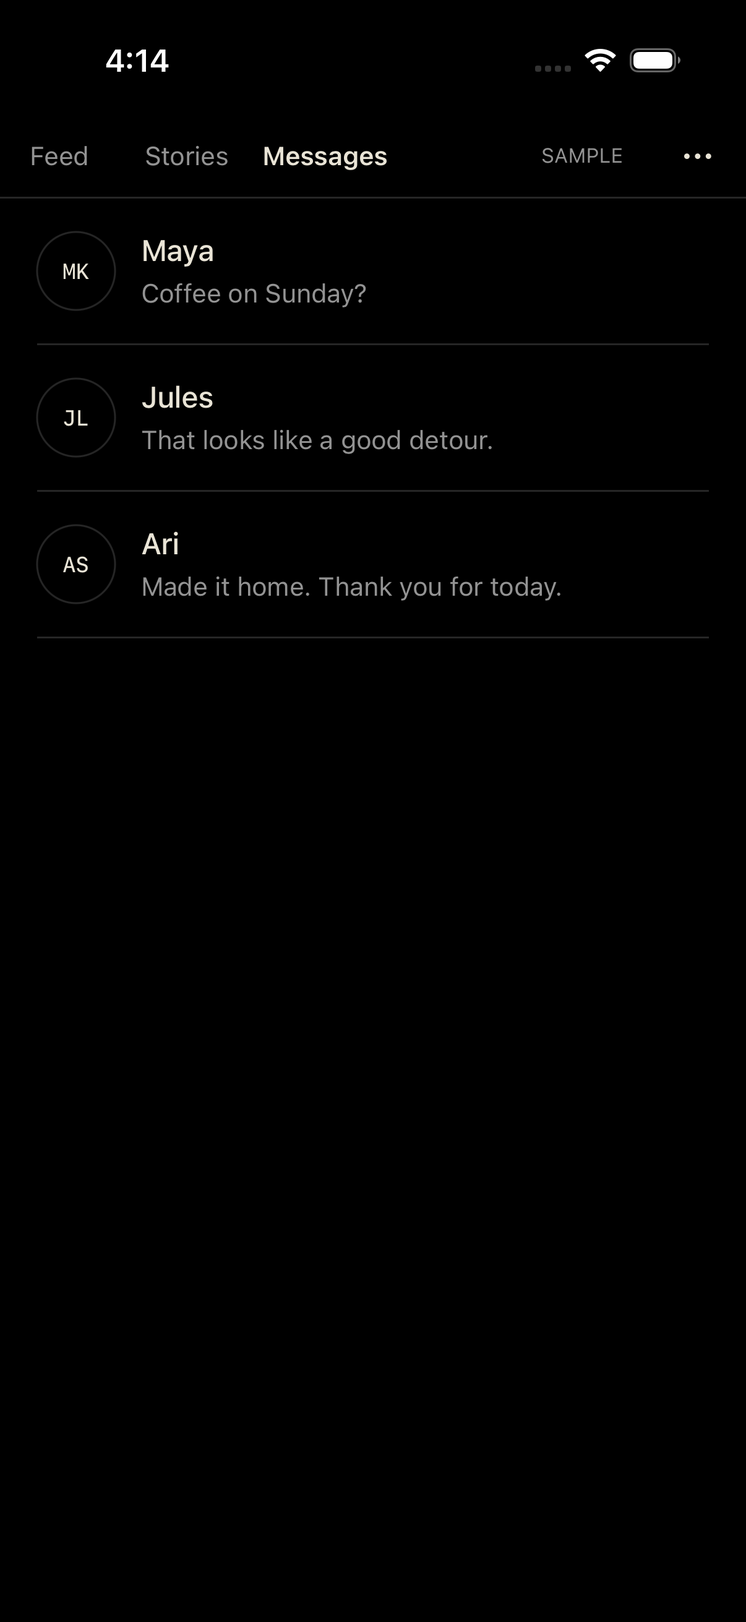
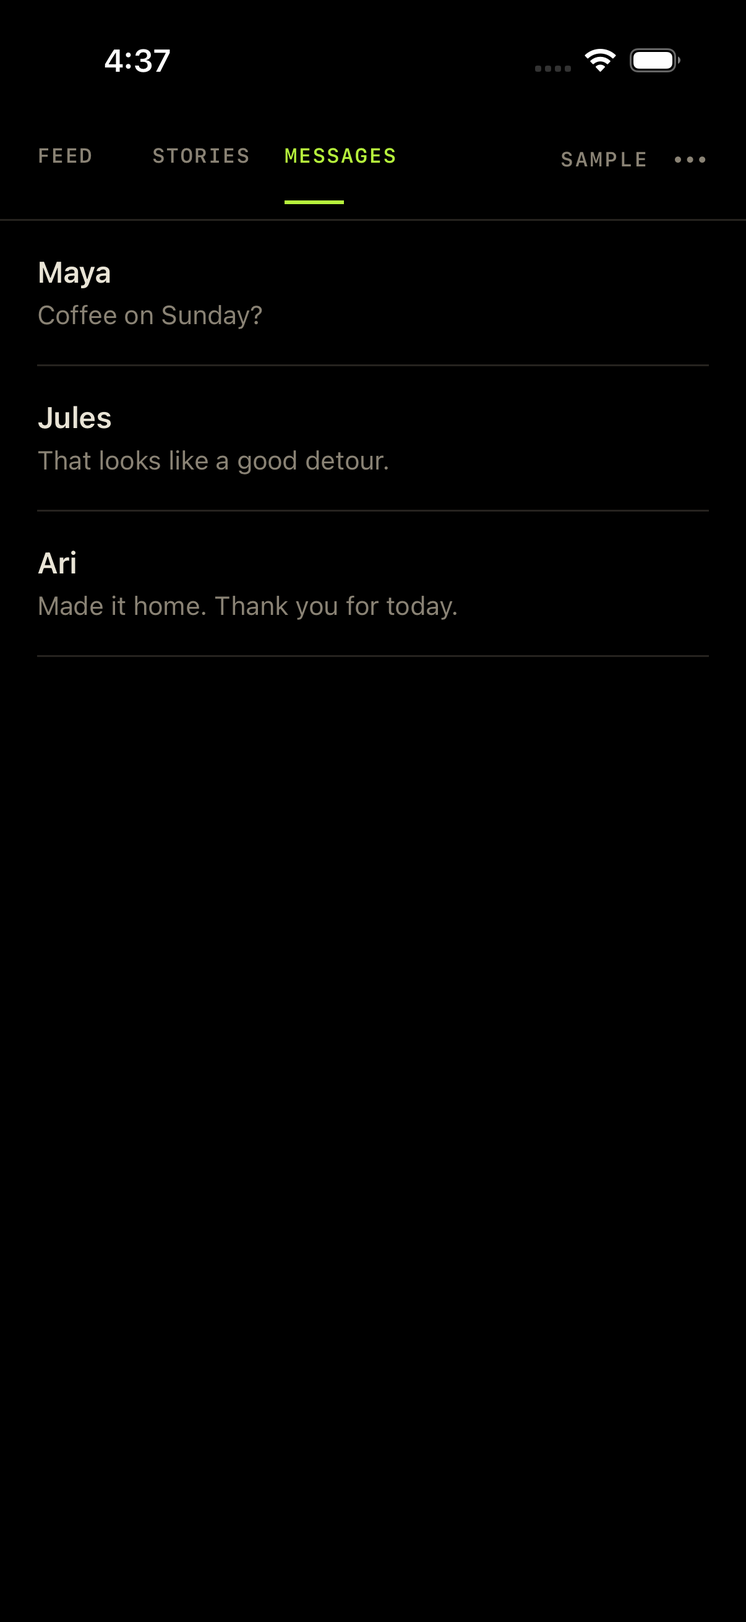
Apply Plural Horse Weapons styling to native reading screens

diff --git a/Sources/NativeStoriesAndMessages.swift b/Sources/NativeStoriesAndMessages.swift
@@ -11,14 +11,15 @@ struct NativeStories: View {
                     Button { selected = person } label: {
                         HStack(spacing:16) {
                             Avatar(initials:String(person.username.prefix(2)).uppercased(),story:true)
-                            Text(person.username).font(.body)
+                            Text(person.username).font(.headline)
                             Spacer()
+                            Image(systemName:"arrow.up.right").font(.caption).foregroundStyle(PorchTheme.muted)
                         }.padding(.vertical,16).contentShape(Rectangle())
                     }.buttonStyle(.plain).accessibilityLabel("\(person.username)'s story")
                     PorchRule()
                 }
                 if people.isEmpty { Text("No stories.").font(.subheadline).foregroundStyle(PorchTheme.muted).padding(.top,40) }
-            }.padding(.horizontal,16)
+            }.padding(.horizontal,20)
         }.accessibilityIdentifier("native-stories")
             .sheet(item:$selected) { person in NativeStoryViewer(person:person,client:client) }
     }
@@ -35,7 +36,7 @@ struct NativeStoryViewer: View {
     var body: some View {
         VStack(spacing:20) {
             HStack {
-                Text(person.username).font(.subheadline.weight(.semibold))
+                Text(person.username).font(.headline)
                 Spacer()
                 Button { dismiss() } label: { Image(systemName:"xmark").frame(width:44,height:44) }.accessibilityLabel("Close story")
             }
@@ -47,7 +48,7 @@ struct NativeStoryViewer: View {
                     Button { current = max(0,current-1) } label: { Image(systemName:"chevron.left").frame(width:44,height:44) }
                         .disabled(current == 0).accessibilityLabel("Previous story")
                     Spacer()
-                    Text("\(current+1) / \(items.count)").font(.caption).foregroundStyle(PorchTheme.muted)
+                    Text("\(current+1) / \(items.count)").font(PorchTheme.utility).foregroundStyle(PorchTheme.muted)
                     Spacer()
                     Button { if current+1 < items.count { current += 1 } else { dismiss() } } label: {
                         Image(systemName:current+1 < items.count ? "chevron.right" : "checkmark").frame(width:44,height:44)
@@ -55,7 +56,7 @@ struct NativeStoryViewer: View {
                 }
             } else { Text(failed ? "Couldn't load this story." : "This story has ended.").foregroundStyle(PorchTheme.muted) }
             Spacer(minLength:0)
-        }.padding(16).background(PorchTheme.canvas).foregroundStyle(PorchTheme.bone)
+        }.padding(20).background(PorchTheme.canvas).foregroundStyle(PorchTheme.bone)
             .preferredColorScheme(.dark).presentationBackground(PorchTheme.canvas)
             .task {
                 do { let result = try await client.request("story",identifier:person.id); items = result.posts; failed = result.error != nil }
@@ -75,14 +76,14 @@ struct NativeInbox: View {
                 ForEach(threads) { thread in
                     Button { selected = thread } label: {
                         VStack(alignment:.leading,spacing:6) {
-                            Text(thread.title).font(.body)
+                            Text(thread.title).font(.headline)
                             if !thread.preview.isEmpty { Text(thread.preview).font(.subheadline).foregroundStyle(PorchTheme.muted).lineLimit(1) }
                         }.frame(maxWidth:.infinity,alignment:.leading).padding(.vertical,18).contentShape(Rectangle())
                     }.buttonStyle(.plain)
                     PorchRule()
                 }
                 if threads.isEmpty { Text("No messages.").font(.subheadline).foregroundStyle(PorchTheme.muted).padding(.top,40) }
-            }.padding(.horizontal,16)
+            }.padding(.horizontal,20)
         }.accessibilityIdentifier("native-inbox")
             .sheet(item:$selected) { thread in NativeConversation(thread:thread,client:client) }
     }
@@ -98,10 +99,10 @@ struct NativeConversation: View {
     var body: some View {
         VStack(spacing:0) {
             HStack {
-                Text(thread.title).font(.subheadline.weight(.semibold))
+                Text(thread.title).font(.headline)
                 Spacer()
                 Button { dismiss() } label: { Image(systemName:"xmark").frame(width:44,height:44) }.accessibilityLabel("Close conversation")
-            }.padding(.horizontal,16)
+            }.padding(.horizontal,20)
             PorchRule()
             ScrollView {
                 VStack(spacing:16) {
@@ -113,7 +114,7 @@ struct NativeConversation: View {
                     if failed { Text("Couldn't load these messages.").foregroundStyle(PorchTheme.muted).padding(30) }
                 }.padding(16)
             }
-            Text("Read-only").font(.caption).foregroundStyle(PorchTheme.muted).padding(12)
+            Text("Read-only").font(PorchTheme.utility).foregroundStyle(PorchTheme.muted).padding(12)
         }.background(PorchTheme.canvas).foregroundStyle(PorchTheme.bone).preferredColorScheme(.dark)
             .presentationBackground(PorchTheme.canvas)
             .task {

diff --git a/Sources/ContentView.swift b/Sources/ContentView.swift
@@ -5,7 +5,6 @@ struct ContentView: View {
     @StateObject private var browser = InstagramBrowser()
     @StateObject private var client = InstagramDataClient()
     @State private var showSignIn = false
-    @Environment(\.dynamicTypeSize) private var dynamicTypeSize
     private var nativeTab: PorchModel.Tab? { model.mode == .instagram ? model.tab : nil }
 
     var body: some View {
@@ -37,21 +36,17 @@ struct ContentView: View {
     }
     private var session: some View {
         VStack(spacing:0) {
-            HStack(spacing:dynamicTypeSize.isAccessibilitySize ? 8 : 18) {
-                ForEach([PorchModel.Tab.feed,.stories,.messages],id:\.self) { tab in
-                    Button { model.tab = tab } label: {
-                        Text(tab.rawValue).font(.subheadline.weight(model.tab == tab ? .semibold : .regular))
-                            .foregroundStyle(model.tab == tab ? PorchTheme.bone : PorchTheme.muted)
-                            .frame(minWidth:44,minHeight:44,alignment:.leading)
-                            .contentShape(Rectangle())
-                    }.buttonStyle(.plain).accessibilityIdentifier("tab-\(tab.rawValue)")
-                        .accessibilityAddTraits(model.tab == tab ? .isSelected : [])
+            ViewThatFits(in: .horizontal) {
+                HStack(spacing: 18) {
+                    tabControls
+                    Spacer(minLength: 0)
+                    sessionTools
                 }
-                Spacer(minLength:0)
-                if model.mode == .sample { Text("SAMPLE").font(.caption2).foregroundStyle(PorchTheme.muted) }
-                Button { model.showSettings = true } label: { Image(systemName:"ellipsis").frame(width:44,height:44) }
-                    .accessibilityLabel("Settings").accessibilityIdentifier("settings")
-            }.padding(.leading,16).padding(.trailing,4)
+                VStack(alignment: .leading, spacing: 4) {
+                    tabControls
+                    HStack { Spacer(minLength: 0); sessionTools }
+                }
+            }.padding(.leading,20).padding(.trailing,8).padding(.bottom,8)
             PorchRule()
             if model.mode == .sample {
                 switch model.tab {
@@ -60,6 +55,31 @@ struct ContentView: View {
                 default: SampleFeed(finish:finish)
                 }
             } else { liveContent }
+        }
+    }
+    @ViewBuilder private var tabControls: some View {
+        ForEach([PorchModel.Tab.feed,.stories,.messages],id:\.self) { tab in
+            Button { model.tab = tab } label: {
+                Text(tab.rawValue.uppercased()).font(PorchTheme.utility).tracking(0.8)
+                    .foregroundStyle(model.tab == tab ? PorchTheme.accent : PorchTheme.muted)
+                    .fixedSize(horizontal:true,vertical:false)
+                    .frame(minWidth:44,minHeight:44,alignment:.leading)
+                    .padding(.bottom,4)
+                    .overlay(alignment:.bottomLeading) {
+                        if model.tab == tab { Rectangle().fill(PorchTheme.accent).frame(width:32,height:2) }
+                    }
+                    .contentShape(Rectangle())
+            }.buttonStyle(.plain).accessibilityLabel(tab.rawValue)
+                .accessibilityIdentifier("tab-\(tab.rawValue)")
+                .accessibilityAddTraits(model.tab == tab ? .isSelected : [])
+        }
+    }
+    private var sessionTools: some View {
+        HStack(spacing:0) {
+            if model.mode == .sample { Eyebrow(text:"Sample").fixedSize() }
+            Button { model.showSettings = true } label: {
+                Image(systemName:"ellipsis").font(.system(size:18)).foregroundStyle(PorchTheme.muted).frame(width:44,height:44)
+            }.accessibilityLabel("Settings").accessibilityIdentifier("settings")
         }
     }
     @ViewBuilder private var liveContent: some View {

diff --git a/Sources/NativeContent.swift b/Sources/NativeContent.swift
@@ -37,9 +37,9 @@ struct NativeFeed: View {
                     Text("No posts.").font(.subheadline).foregroundStyle(PorchTheme.muted).padding(.top, 40)
                 }
                 if hasMore, let more {
-                    Button("More posts", action: more).font(.subheadline).frame(minHeight:44).padding(.vertical,16)
+                    Button("MORE POSTS", action: more).font(PorchTheme.utility).tracking(0.8).frame(minHeight:44).padding(.vertical,16)
                 } else if !posts.isEmpty {
-                    Text("Caught up").font(.caption).foregroundStyle(PorchTheme.muted).padding(.vertical, 24)
+                    Eyebrow(text:"Caught up").padding(.vertical, 24)
                 }
             }
         }.scrollIndicators(.hidden).background(PorchTheme.canvas)
@@ -54,13 +54,13 @@ struct NativePostCard: View {
     var body: some View {
         VStack(alignment: .leading, spacing: 12) {
             HStack {
-                Text(post.username).font(.subheadline.weight(.semibold))
+                Text(post.username).font(.headline)
                 Spacer()
                 if post.timestamp > 0 {
                     Text(Date(timeIntervalSince1970: post.timestamp), format: .dateTime.month(.abbreviated).day())
-                        .font(.caption).foregroundStyle(PorchTheme.muted)
+                        .font(PorchTheme.utility).foregroundStyle(PorchTheme.muted)
                 }
-            }.padding(.horizontal, 16).padding(.top, 16)
+            }.padding(.horizontal, 20).padding(.top, 20)
             if post.media.count == 1, let media = post.media.first {
                 NativeMedia(media: media)
             } else if !post.media.isEmpty {
@@ -69,18 +69,18 @@ struct NativePostCard: View {
                         NativeMedia(media: media, active: selectedImage == index).tag(index)
                     }
                 }.tabViewStyle(.page(indexDisplayMode: .never)).frame(height: 380)
-                Text("\(selectedImage + 1) / \(post.media.count)").font(.caption2)
-                    .foregroundStyle(PorchTheme.muted).padding(.horizontal, 16)
+                Text("\(selectedImage + 1) / \(post.media.count)").font(PorchTheme.utility)
+                    .foregroundStyle(PorchTheme.muted).padding(.horizontal, 20)
             }
             if !post.caption.isEmpty {
                 Text(post.caption).font(.subheadline).lineSpacing(3)
-                    .lineLimit(expanded ? nil : 4).padding(.horizontal, 16)
+                    .lineLimit(expanded ? nil : 4).padding(.horizontal, 20)
                 if !expanded && post.caption.count > 220 {
-                    Button("More") { expanded = true }.font(.caption)
-                        .foregroundStyle(PorchTheme.muted).frame(minHeight: 44).padding(.horizontal, 16)
+                    Button("MORE") { expanded = true }.font(PorchTheme.utility)
+                        .frame(minHeight: 44).padding(.horizontal, 20).accessibilityLabel("More caption")
                 }
             }
-            PorchRule().padding(.horizontal, 16).padding(.top, 4)
+            PorchRule().padding(.horizontal, 20).padding(.top, 4)
         }.foregroundStyle(PorchTheme.bone).accessibilityElement(children:.contain).accessibilityIdentifier("native-post")
     }
 }

diff --git a/Sources/SampleViews.swift b/Sources/SampleViews.swift
@@ -26,12 +26,12 @@ struct SampleFeed: View {
         ScrollView {
             VStack(alignment: .leading, spacing: 0) {
                 HStack(spacing: 10) {
-                    Text("maya.kim").font(.subheadline.weight(.semibold))
+                    Text("maya.kim").font(.headline)
                     Spacer()
                     Eyebrow(text: "2h")
-                }.padding(.horizontal, 20).padding(.top, 16).padding(.bottom, 14)
+                }.padding(.horizontal, 20).padding(.top, 20).padding(.bottom, 12)
                 SampleLandscape(height: 320)
-                Text("Took the long way home.").font(.body).padding(.horizontal, 20).padding(.vertical, 16)
+                Text("Took the long way home.").font(.subheadline).padding(.horizontal, 20).padding(.vertical, 16)
                 PorchRule().padding(.horizontal, 20)
                 HStack {
                     Eyebrow(text: "Caught up")
@@ -52,7 +52,7 @@ struct SampleStories: View {
                     Button { story = index } label: {
                         HStack(spacing: 14) {
                             Avatar(initials: SampleContent.initials[index], size: 44, story: true)
-                            Text(SampleContent.names[index]).font(.body)
+                            Text(SampleContent.names[index]).font(.headline)
                             Spacer()
                             Image(systemName: "arrow.up.right").font(.caption).foregroundStyle(PorchTheme.muted)
                         }.padding(.vertical, 16).contentShape(Rectangle())
@@ -96,9 +96,8 @@ struct SampleInbox: View {
                 ForEach(0..<3) { index in
                     Button { selected = index } label: {
                         HStack(spacing: 14) {
-                            Avatar(initials: SampleContent.initials[index], size: 42)
                             VStack(alignment: .leading, spacing: 5) {
-                                Text(SampleContent.names[index]).font(.body.weight(.medium))
+                                Text(SampleContent.names[index]).font(.headline)
                                 Text(messages[index]).font(.subheadline).foregroundStyle(PorchTheme.muted).multilineTextAlignment(.leading)
                             }
                             Spacer(minLength: 0)

diff --git a/Sources/Theme.swift b/Sources/Theme.swift
@@ -1,13 +1,13 @@
 import SwiftUI
 
-// Plural's restraint, reduced further toward Light Phone: quiet, monochrome controls.
+// Horse Weapons tokens from Plural, the moped travel-time app.
 enum PorchTheme {
     static let canvas = Color.black
     static let surface = Color(hex: 0x101010)
     static let bone = Color(hex: 0xE9E4D6)
-    static let muted = Color(hex: 0x939393)
-    static let line = Color(hex: 0x262626)
-    static let accent = bone
+    static let muted = Color(hex: 0x8A8375)
+    static let line = Color(hex: 0x26231F)
+    static let accent = Color(hex: 0xB6F23C)
     static let utility = Font.system(.caption2, design: .monospaced).weight(.semibold)
 }
 extension Color {
@@ -21,7 +21,7 @@ struct PorchButtonStyle: ButtonStyle {
         configuration.label.font(.system(.headline, design: .monospaced).weight(.bold))
             .frame(maxWidth: .infinity, minHeight: 50)
             .foregroundStyle(filled ? PorchTheme.canvas : PorchTheme.accent)
-            .background(filled ? PorchTheme.accent : PorchTheme.canvas)
+            .background(filled ? PorchTheme.bone : PorchTheme.canvas)
             .opacity(configuration.isPressed ? 0.75 : 1)
     }
 }
@@ -38,7 +38,7 @@ struct Avatar: View {
     var body: some View {
         Text(initials).font(.system(size: size * 0.28, weight: .medium, design: .monospaced))
             .foregroundStyle(PorchTheme.bone).frame(width: size, height: size)
-            .overlay(Circle().stroke(story ? PorchTheme.accent : PorchTheme.line, lineWidth: 1))
+            .overlay(Circle().stroke(story ? PorchTheme.muted : PorchTheme.line, lineWidth: 1))
     }
 }
 struct PorchRule: View {

diff --git a/UITests/PorchUITests.swift b/UITests/PorchUITests.swift
@@ -29,12 +29,25 @@ final class PorchUITests: XCTestCase {
         app.buttons["Finish session"].tap()
         XCTAssertTrue(app.buttons["connect"].waitForExistence(timeout: 3))
         capture(app, "Welcome")
+
+        app.terminate()
+        app.launchArguments = ["--sample", "-UIPreferredContentSizeCategoryName", "UICTContentSizeCategoryAccessibilityXXXL"]
+        app.launch()
+        XCTAssertTrue(app.buttons["tab-Stories"].waitForExistence(timeout: 10))
+        for tab in ["Feed", "Stories", "Messages"] {
+            XCTAssertTrue(app.buttons["tab-\(tab)"].isHittable)
+        }
+        app.buttons["tab-Stories"].tap()
+        XCTAssertTrue(app.buttons["Maya's sample story"].exists)
+        XCTAssertFalse(app.images["Sample landscape: a cabin and mountains reflected in a still lake"].exists)
+        XCTAssertTrue(app.buttons["settings"].isHittable)
+        capture(app, "Large text stories")
     }
 
     @MainActor private func capture(_ app: XCUIApplication, _ name: String) {
         // Let sheet/tab compositing finish before keeping a public sample screenshot.
         Thread.sleep(forTimeInterval: 1)
-        let attachment = XCTAttachment(screenshot: app.screenshot())
+        let attachment = XCTAttachment(screenshot: XCUIScreen.main.screenshot())
         attachment.name = name
         attachment.lifetime = .keepAlways
         add(attachment)

diff --git a/AccountUITests/NativeReadingTests.swift b/AccountUITests/NativeReadingTests.swift
@@ -32,7 +32,7 @@ final class NativeReadingTests: XCTestCase {
     }
     @MainActor private func capture(_ app:XCUIApplication,_ name:String) {
         Thread.sleep(forTimeInterval:1)
-        let attachment = XCTAttachment(screenshot:app.screenshot())
+        let attachment = XCTAttachment(screenshot:XCUIScreen.main.screenshot())
         attachment.name = name; attachment.lifetime = .keepAlways; add(attachment)
     }
 }

diff --git a/VERIFICATION.md b/VERIFICATION.md
@@ -4,13 +4,13 @@ September 10, 2026. Xcode 26.6 / Swift 6.3.3, iOS 26.5 simulator, iPhone 17 Pro.
 
 ## Passing checks
 
-The final offline Porch suite passed **8 test definitions / 24 expanded cases**, with no failures. Local result: `Test-Porch-2026.09.10_04-14-23--0400.xcresult`.
+The final offline Porch suite passed **8 test definitions / 24 expanded cases**, with no failures. Local result: `Test-Porch-2026.09.10_04-37-25--0400.xcresult`.
 
 The production adapter ran in actual WebKit against synthetic responses. Checks covered positive following status, ads/paid partnerships, Reels, recommendation modules, a legitimate caption containing “Sponsored,” photo/video carousel data, deduplication, explicit pagination, story/thread ID membership, accepted inbox isolation, malformed schemas, login and rate-limit failures, GET-only requests and CDN URL restrictions. Login navigation checks covered exact HTTPS hosts, credential-bearing/spoofed URLs and encoded discovery routes.
 
-The sample UI journey opened a story by tapping its row, advanced and closed it, switched between Feed/Stories/Messages, opened Settings, ended the session and returned to Welcome. Whole-row hit testing was fixed after this check found untappable blank space. Public screenshots were captured after compositing settled and visually inspected. They contain only fictional sample content.
+The sample UI journey opened a story by tapping its row, advanced and closed it, switched between Feed/Stories/Messages, opened Settings, ended the session and returned to Welcome. Whole-row hit testing was fixed after this check found untappable blank space. The journey also exercised navigation at the largest accessibility text size. Visual inspection found crowding in the first fallback layout; the final layout gives the sample label and Settings their own row. Full-screen captures replaced app-only snapshots that omitted unchanged compositing layers. Public screenshots were visually inspected and contain only fictional sample content.
 
-The final opt-in PorchAccountCheck suite passed **2 tests**, with no failures. Local result: `Test-PorchAccountCheck-2026.09.10_04-19-46--0400.xcresult`.
+The final opt-in PorchAccountCheck suite passed **2 tests**, with no failures. Local result: `Test-PorchAccountCheck-2026.09.10_04-38-29--0400.xcresult`.
 
 Using an existing signed-in account, that run returned **3 native Following posts, 1 followed story group with 1 media item, and 0 accepted inbox threads**, all without an adapter error. The story's video URL loaded through AVFoundation with `isPlayable == true`. Earlier probes also rendered four posts before the final exclusion rules were applied; counts are observations, not fixed acceptance expectations.
 

diff --git a/docs/decisions/2026-09-10-plural-reference.md b/docs/decisions/2026-09-10-plural-reference.md
@@ -1,5 +1,16 @@
-# Plural is the visual reference
+# Plural is the Horse Weapons reference
 
-The user rejected the initial prototype's visual noise, unnecessary text and clunky navigation, and identified Plural as the closer reference. Plural's source and rendered view supplied the black canvas, bone text, thin rules, compact controls and details hidden until requested.
+The user identified Plural, the moped travel-time app, as the Horse Weapons reference after rejecting visual noise, explanatory copy and a clunky navigation bar. Its actual `Theme.swift`, `ContentView.swift` and rendered glance screen informed this revision.
 
-Subsequent direction removed the lime accent and made the interface still quieter, following Light Phone's restraint. Feed, Stories and Messages now share one compact text control row, and all three render live content natively. Settings contains the secondary tools and an initially collapsed About disclosure. Preserve these decisions instead of inferring a new aesthetic from a general house style.
+The earlier monochrome revision incorrectly inferred that the Light Phone reference meant removing lime. That was an implementation inference, not a user requirement. The user's clarification supersedes it.
+
+## Tokens and layout
+
+- Canvas: `#000000`; text: `#E9E4D6`; secondary text: `#8A8375`; rules: `#26231F`; active controls: `#B6F23C`.
+- System monospaced semibold utility labels, with restrained tracking. System sans-serif names and captions.
+- Left-aligned content, 20-point text margins, thin rules between entries. Photos remain the principal visual element.
+- One top control row. The active destination uses lime text and a 32-point underline, matching Plural's mode selector. Large text stacks the destinations so labels remain whole.
+
+Plural's large route metric serves its specific task; Porch does not invent a metric or prominent heading to imitate it. Feed and Stories remain separate, with no story tray in Feed. Settings holds secondary tools and an initially collapsed About disclosure. The same styling applies to real native content and the clearly identified offline sample.
+
+Existing clients establish useful prior art: [SocialLite's product page](https://apps.apple.com/us/app/sociallite-block-reels-shorts/id6757661674) describes filtering distracting content while retaining social features; [OpenSocials](https://github.com/liamperritt/opensocials) publishes a minimal social-browser implementation. Their existence is evidence of feasible products, not proof of a particular internal architecture. Porch's data path is documented and tested independently in [DESIGN.md](../../DESIGN.md) and [VERIFICATION.md](../../VERIFICATION.md).

diff --git a/AGENTS.md b/AGENTS.md
@@ -6,6 +6,6 @@ Use project.yml and XcodeGen. Sources/InstagramBrowser.swift is for sign-in only
 
 Credentials stay in the local WebKit store. Content may cross into bounded native models in memory; cookies, tokens, raw responses and private screenshots must not be logged or published. Tests use synthetic fixtures unless the explicit account scheme is invoked. Never follow, like, post or send a test message. Do not mistake sample or fixture results for signed-in evidence.
 
-Feed and Stories are completely separate. Keep the single compact control row, black canvas, bone text and neutral grays. No bottom navigation, promotional copy, autoplay, story timers, infinite-scroll triggers, subscriptions, payment gates, app analytics or guilt counters. Whole rows should be tappable and controls at least 44 points.
+Feed and Stories are completely separate. Follow Plural, the moped travel-time app, for Horse Weapons styling: one compact control row, black canvas, bone text, warm grays, monospaced utility labels and lime active controls with a short selection underline. No bottom navigation, promotional copy, autoplay, story timers, infinite-scroll triggers, subscriptions, payment gates, app analytics or guilt counters. Whole rows should be tappable and controls at least 44 points. Large-text navigation must remain legible and reachable.
 
 Use the local ios-run workflow when available, otherwise README commands. Visually inspect UI changes. Commit scoped, verified source; never publish account data or signing material. This is an experimental source release, not an App Store submission.

diff --git a/DESIGN.md b/DESIGN.md
@@ -1,6 +1,8 @@
 # Design
 
-Porch serves people who already know Instagram and want less stimulation. Its content is fully custom, native SwiftUI. Black, warm bone, neutral gray and thin rules follow the restraint of Plural and Light Phone. One compact control row selects Feed, Stories or Messages. Explanations belong in Settings.
+Porch serves people who already know Instagram and want less stimulation. Its content is fully custom, native SwiftUI. The visual reference is Plural, the moped travel-time app, and its Horse Weapons style: black canvas, warm bone text, warm gray details, thin rules and lime for active controls. One compact control row selects Feed, Stories or Messages. Explanations belong in Settings.
+
+Monospaced utility labels and the short lime selection underline come from Plural's controls. Names and captions retain readable system typography, with the author above the media and the caption below. Content is left-aligned with 20-point text margins; photos can span the screen. The navigation stacks at large text sizes instead of truncating its labels. No extra masthead, counters or decorative panels compete with the content.
 
 **Feed and Stories are separate destinations.** No story tray in Feed, no posts under Stories, no simultaneous streams. A story opens only after selecting a followed person. Advancement and video playback require a deliberate action. Pagination is a button, not an infinite-scroll trigger. The current session caches each tab until explicitly refreshed.
 
